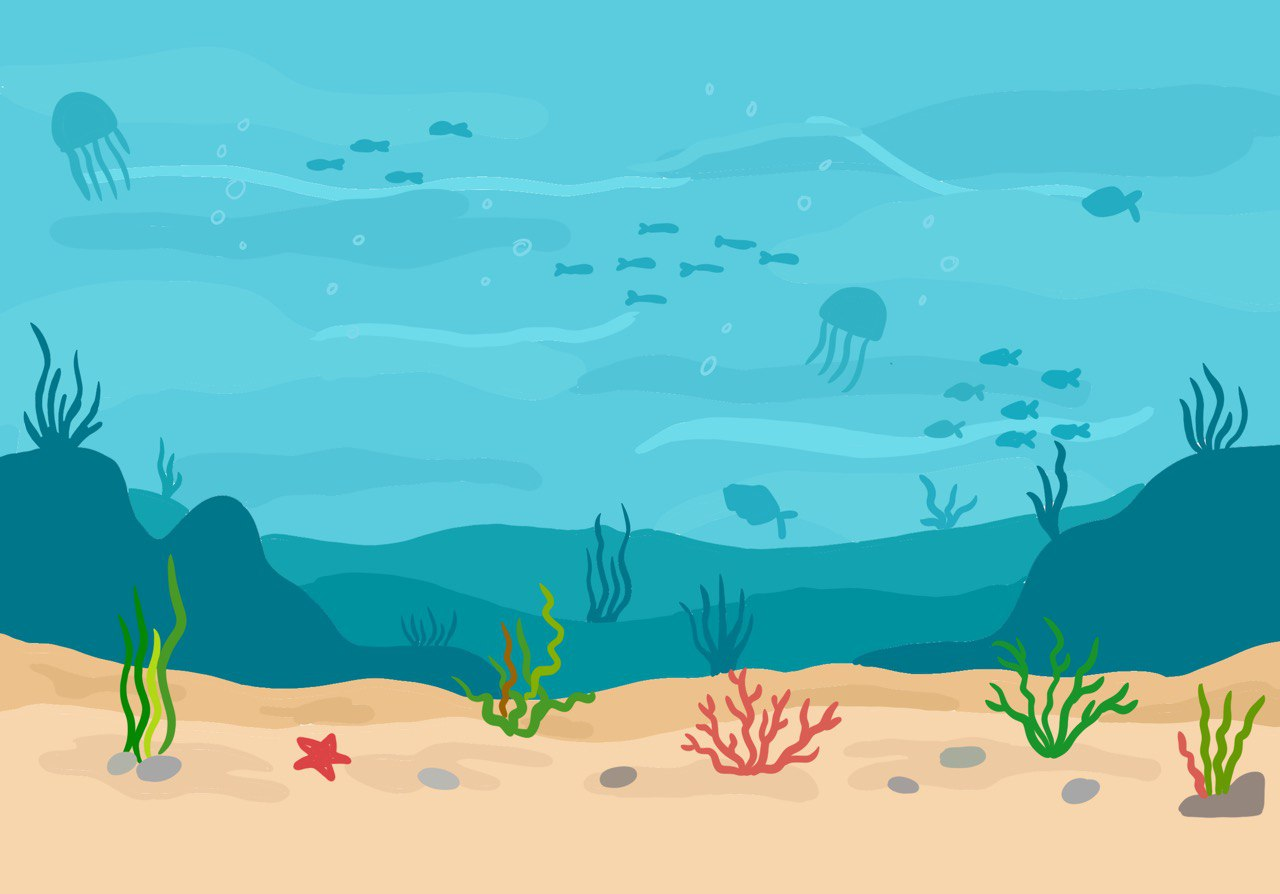
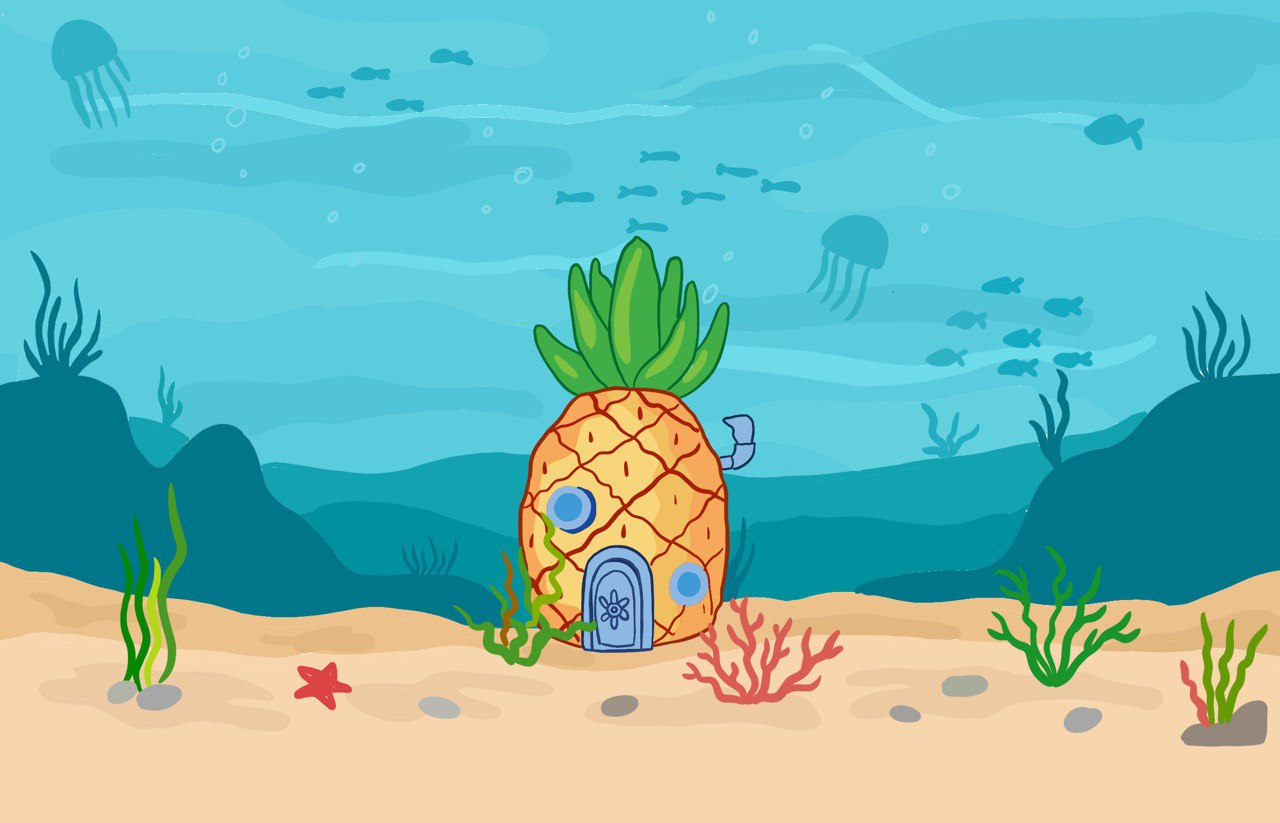
obstacles

diff --git a/flock/engine.py b/flock/engine.py
@@ -34,18 +34,36 @@ class Engine:
 
 		#theta = [(f.dir_angle/(360)*2*np.pi)%2*np.pi for f in self.flock] + [self.player.tar_angle%(2*np.pi)]
 		theta = self.move_step(vx, vy) % (2*np.pi)
-		
+		for i,f in enumerate(self.flock):
+			f.tar_angle = float(theta[i,0])
+
 		# AGGIUNGI COLLISIONI
+		for b in self.blocks:
+			for f in self.flock:
+				self.colision(b,f)
+			self.colision(b,self.player, r=1.0, angle=False)
 
 		self.player.update(dt)
 		for i,f in enumerate(self.flock):
-			f.tar_angle = float(theta[i,0])
 			f.update(dt)
 
-	def close(self,ii,jj):
+	def close(self,ii,jj,r=None):
+		if r is None: r = self.args.r
 		dist = np.sqrt((self.x[ii] - self.x[jj])**2 + (self.y[ii] - self.y[jj])**2)
-		return dist < self.args.r
+		return dist < r
 	
+	def close2(self,p1,p2,r):
+		dist = np.sqrt((p1.x - p2.x)**2 + (p1.y - p2.y)**2)
+		return dist < (p1.r+p2.r)*r
+
+	def colision(self, b, f, r=1.1, angle=True):
+		if not self.close2(b, f, r): return
+		new_angle = 2*np.atan2(b.y-f.y,b.x-f.x)-f.dir_angle/360*(2*np.pi)
+		if angle: f.tar_angle = -new_angle
+		vmod = np.sqrt((f.x-b.x)**2+(f.y-b.y)**2)
+		f.x = b.x + 1.5*(f.x-b.x)/vmod*b.r
+		f.y = b.y + 1.5*(f.y-b.y)/vmod*b.r
+
 	def connect(self):
 		A = np.zeros((self.N,self.N))
 		for ii in range(self.N):

diff --git a/main.py b/main.py
@@ -2,7 +2,7 @@ from flock import SceneManager, MenuScene, GameScene, Tracker
 from flock import SW, SH, SF
 import pygame, time
 
-TRACKER_FLAG = True
+TRACKER_FLAG = False
 
 class Game:
 
@@ -30,6 +30,7 @@ class Game:
         sprites["birdL"] = pygame.transform.rotate(pygame.image.load("gfx/birdL.png").convert_alpha(),225)
         sprites["birdN"] = pygame.transform.rotate(pygame.image.load("gfx/birdN.png").convert_alpha(),225)
         sprites["birdN"] = pygame.transform.rotate(pygame.image.load("gfx/dory.png").convert_alpha(),0)
+        sprites["birdL"] = pygame.transform.flip(pygame.image.load("gfx/nemo.png").convert_alpha(),flip_x=True, flip_y=False)
         sprites["obst"] = pygame.transform.rotate(pygame.image.load("gfx/obst.png").convert_alpha(),0)
         sprites["compass"] = pygame.transform.rotate(pygame.image.load("gfx/compass.png").convert_alpha(),0)
         sprites["needle"] = pygame.transform.rotate(pygame.image.load("gfx/needle.png").convert_alpha(),270)

diff --git a/flock/utils.py b/flock/utils.py
@@ -2,7 +2,7 @@ import pygame, time, random
 FPS = 30
 SW = 1280
 SH = 720
-SF = 1.2
+SF = 1
 
 class Button:
     def __init__(self,
